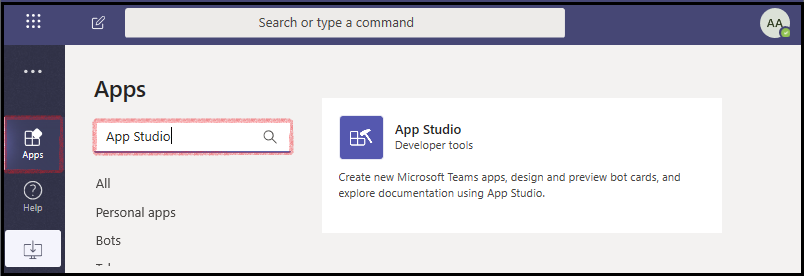
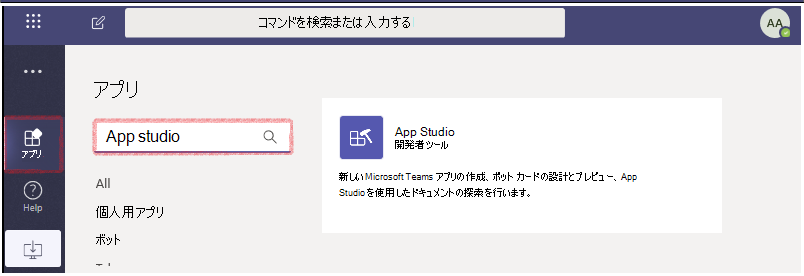
commit translated contents

diff --git a/msteams-platform/concepts/deploy-and-publish/appsource/prepare/submission-checklist.md b/msteams-platform/concepts/deploy-and-publish/appsource/prepare/submission-checklist.md
@@ -6,25 +6,31 @@ ms.localizationpriority: high
 author: heath-hamilton
 ms.author: surbhigupta
 keywords: 送信ストア配布アプリ パッケージの検証ガイドライン ローカライズ
-ms.openlocfilehash: 6ea5ff76cc81f23719e4b4c499f4a2f2594718a2
-ms.sourcegitcommit: eeaa8cbb10b9dfa97e9c8e169e9940ddfe683a7b
+ms.openlocfilehash: 81c453a69b0c552c3e2db07edb6fd795d9c068ae
+ms.sourcegitcommit: 12510f34b00bfdd0b0e92d35c8dbe6ea1f6f0be2
 ms.translationtype: HT
 ms.contentlocale: ja-JP
-ms.lasthandoff: 05/27/2022
-ms.locfileid: "65756780"
+ms.lasthandoff: 06/11/2022
+ms.locfileid: "66033009"
 ---
 # <a name="prepare-your-microsoft-teams-store-submission"></a>Microsoft Teams のストア送信を準備する
 
 Microsoft Teams アプリの設計、構築、テストが完了しました。 これで、ユーザーがアプリを検出して使用を開始できるように登録する準備ができました。
 
-アプリを[パートナー センター](/office/dev/store/use-partner-center-to-submit-to-appsource)に送信する前に、次の手順を実行してください。
+Microsoft Teams アプリ ストアへのアプリの発行の詳細については、次のビデオを参照してください。
+<br>
+
+> [!VIDEO https://www.microsoft.com/videoplayer/embed/RE4WG3l]
+<br>
+
+アプリを[パートナー センター](/office/dev/store/use-partner-center-to-submit-to-appsource)に送信する前に、次の手順を実行していることを確認してください。
 
 ## <a name="validate-your-app-package"></a>アプリ パッケージの検証
 
 アプリがテスト環境で動作している場合がありますが、送信プロセス中に問題が発生しないようにアプリ パッケージを確認する必要があります。
 
 > [!WARNING]
-> App Studio を使用している場合は、Teams アプリを構成、配布、管理するための開発者ポータル [開発者ポータル](https://dev.teams.microsoft.com/) を試してみることをお勧めします。App Studio は 2022 年 6 月 30 日までに非推奨になります。
+> App Studio を使用している場合は、Teams アプリを構成、配布、管理するための[開発者ポータル](https://dev.teams.microsoft.com/)を試してみることをお勧めします。 App Studio は、2022 年 6 月 30 日までに廃止されます。
 
 Microsoft Teams アプリ検証ツールを使用すると、パートナー センターに送信する前に問題を特定して修正できます。 このツールは、ストアの検証中に使用したものと同じテスト ケースに対して、アプリの構成を自動的にチェックします。
 
@@ -212,6 +218,7 @@ Teams アプリをストアに登録するには、[発行元の検証](/azure/a
 > 新しいアプリを送信する場合は、アプリが Teams ストアに表示されるまで正式に発行元の構成証明を完了することができません。 登録されたことのあるアプリを更新する場合は、アプリの最新バージョンを送信する前に、発行元の構成証明を完了します。
 
 ## <a name="next-step"></a>次のステップ
+
 > [!div class="nextstepaction"]
 > [アプリを送信する](/office/dev/store/add-in-submission-guide)
 

diff --git a/msteams-platform/concepts/deploy-and-publish/appsource/prepare/create-partner-center-dev-account.md b/msteams-platform/concepts/deploy-and-publish/appsource/prepare/create-partner-center-dev-account.md
@@ -5,12 +5,12 @@ ms.topic: how-to
 author: heath-hamilton
 ms.author: surbhigupta
 ms.localizationpriority: high
-ms.openlocfilehash: 7d5e6d4d345f94e893a494c6dea2e719aece9da6
-ms.sourcegitcommit: ef582a5ac33e815854d58f2f1faeb06aa2d761ae
+ms.openlocfilehash: f83083524a4d49761e6c69683b66d34a0988d789
+ms.sourcegitcommit: 12510f34b00bfdd0b0e92d35c8dbe6ea1f6f0be2
 ms.translationtype: HT
 ms.contentlocale: ja-JP
-ms.lasthandoff: 05/17/2022
-ms.locfileid: "65443902"
+ms.lasthandoff: 06/11/2022
+ms.locfileid: "66033030"
 ---
 # <a name="create-a-partner-center-developer-account"></a>パートナー センターの開発者アカウントを作成する
 
@@ -208,17 +208,23 @@ ms.locfileid: "65443902"
 
 </details>
 
-## <a name="update-apple-developer-id-on-partner-center"></a>パートナー センターで Apple Developer ID を更新する
+## <a name="update-apple-app-store-connect-team-id-on-partner-center"></a>パートナー センターで Apple App Store Connect Team ID を更新する
 
-ユーザーが Teams iOS プラットフォームにアプリをインストールできるようにするには、Microsoft パートナー センターで Apple Developer ID を更新する必要があります。 Apple Developer ID を更新するには、次の手順に従います。
+ユーザーが Teams iOS プラットフォームにアプリをインストールできるようにするには、Microsoft パートナー センターで Apple App Store Connect Team ID を更新する必要があります。 Apple App Store Connect Team ID を更新するには、次の手順に従います。
 
 1. 全体管理者の資格情報を使用して、[Microsoft パートナー センター](https://partner.microsoft.com/dashboard/home) にログインします。
 1. ページの右上隅にある設定アイコンを選択します。
 1. 左側のウィンドウから、**「組織プロファイル］** の下にある **［法務情報］** セクションに移動します。
 1. **［開発者］** タブを選択します。
-1. Apple Developer ID を入力します。
+1. Apple App Store Connect Team ID を入力します。
 1. オファー ページに移動し、Teams アプリを再発行します。
-   Apple Developer ID が Microsoft パートナー センター で更新されました。
+   Apple App Store Connect Team ID が更新され、ユーザーは Teams iOS プラットフォームにアプリをインストールできるようになりました。
+
+Apple Developer ポータルから Apple App Store Connect Team ID を取得するには、次の手順に従います。
+
+1. [Apple Developer Center](https://developer.apple.com/) にログインします。
+1. **[アカウント]** を選択し、**[メンバーシップ]** に移動します。
+1. **[メンバーシップ]** に **Apple App Store Connect Team ID** が表示されます。
 
 ## <a name="next-step"></a>次のステップ
 

diff --git a/msteams-platform/whats-new.md b/msteams-platform/whats-new.md
@@ -3,12 +3,12 @@ title: Teams の開発者向けの新機能
 description: Microsoft Teams の新しい開発者向け機能とそれらの機能の機能強化について説明します。
 ms.topic: reference
 ms.localizationpriority: high
-ms.openlocfilehash: 267f8a00994a066c9eb7a32669a816a452a7af70
-ms.sourcegitcommit: 73e6767127cb27462f819acd71a1e480580bcf83
+ms.openlocfilehash: 90361f12d3aa327ca0cab3eca9c87ff44b947f94
+ms.sourcegitcommit: 12510f34b00bfdd0b0e92d35c8dbe6ea1f6f0be2
 ms.translationtype: HT
 ms.contentlocale: ja-JP
-ms.lasthandoff: 06/06/2022
-ms.locfileid: "65906289"
+ms.lasthandoff: 06/11/2022
+ms.locfileid: "66032981"
 ---
 # <a name="whats-new-for-developers-in-microsoft-teams"></a>Microsoft Teams の開発者向けの新機能
 
@@ -47,6 +47,7 @@ ms.locfileid: "65906289"
 
 | **Date** | **Update** | **ここで検索** |
 | -------- | --------- | ----------------|
+| 06/08/2022 | 成功メッセージに関するオプションのカード フィードバック| [ボットのビルド] > [ボットの会話] > [[ボットの会話のメッセージ]](~/bots/how-to/conversations/conversation-messages.md#form-completion-feedback)|
 | 06/03/2022 | 新しい構造と手順でタブ アプリの SSO を有効にするための認証モジュールの追加を更新しました | 認証の追加 > タブ > [タブ アプリでシングル サインオンを有効にする](tabs/how-to/authentication/tab-sso-overview.md) |
 | 05/24/2022 | SaaS オファーにリンクされたアプリを公開するための迅速な承認に関するその他のヒント | Teams ストアに公開 > 概要 > [SaaS オファーにリンクされたアプリを公開するための迅速な承認に関するその他のヒント](~/concepts/deploy-and-publish/appsource/publish.md#additional-tips-for-rapid-approval-to-publish-your-app-linked-to-a-saas-offer) |
 | 05/24/2022 | Outlook と Office が有効なアプリを Teams ストアに送信する | Microsoft 365 間でアプリを拡張する [概要](m365-apps/overview.md) |

diff --git a/msteams-platform/includes/teamjs-version-details.md b/msteams-platform/includes/teamjs-version-details.md
@@ -1,0 +1,7 @@
+|                  |[TeamsJS](/javascript/api/overview/msteams-client) のバージョン | [アプリ マニフェスト](../resources/schema/manifest-schema.md)のバージョン| 次のステップ|
+|------------------|---------|--------|---|
+|**Office/Outlook に拡張された Teams アプリ**| TeamsJS v.2.0 以降  | **1.13** 以降 | [Teams アプリを拡張して Microsoft 365 全体で実行する](../m365-apps/extend-m365-teams-personal-tab.md)、または[新しい Microsoft 365 アプリを作成する](../m365-apps/extend-m365-teams-personal-tab.md#quickstart) |
+|**既存の Teams 専用アプリ**| 可能な場合、TeamsJS v.2.0 に更新する (v.1.12 はまだサポートされています*)  | 1.12 | [TeamsJS の下位互換性について理解し](../tabs/how-to/using-teams-client-sdk.md#backwards-compatibility)、[TeamsJS v.2.0 に更新する](../tabs/how-to/using-teams-client-sdk.md#updating-to-the-teams-client-sdk-v200)|
+|**新しい Teams 専用アプリ**| TeamsJS v.2.0 以降 | 1.12 | [Teams Toolkit を使用して新しい Teams アプリを作成する](../toolkit/create-new-project.md)|
+
+**Teams 専用アプリを含む最新の機能強化と新機能のサポートを活用するために、可能な限り最新の TeamsJS （v.2.0 以降） を使用してください。TeamsJS v.1.12 は引き続きサポートされますが、新機能や機能強化は追加されません。1.12 スキーマと 1.13 スキーマはそれ以外は同じです。TeamsJS の詳細については、「[Teams JavaScript クライアント SDK](../tabs/how-to/using-teams-client-sdk.md)」を参照してください。*
